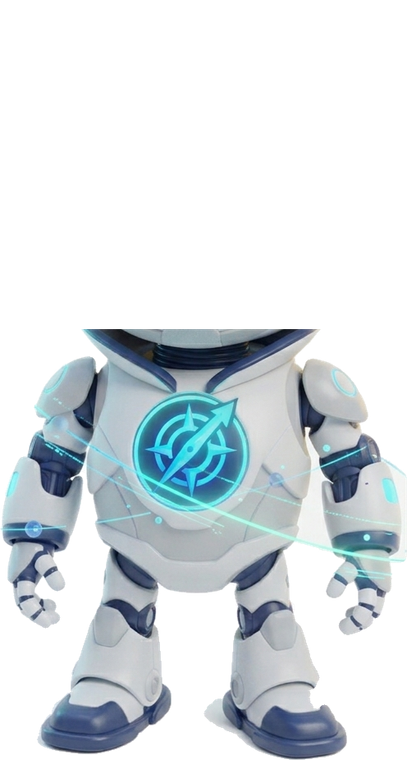
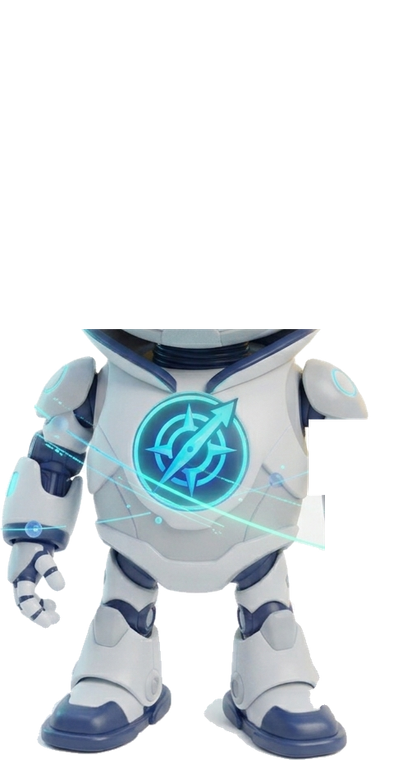
Trovie waves hello

Changed region(s): [[0.7371, 0.5447, 1.0, 0.8474]]

diff --git a/src/components/Trovie.tsx b/src/components/Trovie.tsx
@@ -19,11 +19,20 @@ const MOOD_LINES: Record<Exclude<TrovieMood, "idle">, string> = {
 // Trovie is built from two layers (head and body) so the head can move on its own.
 // Measurements below are percentages of the picture, taken from the original artwork.
 const HEAD_PIVOT = "48% 45.9%";
+const SHOULDER_PIVOT = "82.9% 53.8%"; // where the waving arm turns
 
 export default function Trovie({ mood = "idle", widthClass = "w-40" }: { mood?: TrovieMood; widthClass?: string }) {
   const box = useRef<HTMLDivElement>(null);
   const [line, setLine] = useState(0);
   const [hop, setHop] = useState(true);
+  const [waveKey, setWaveKey] = useState(0); // changing the key restarts the wave
+  const lastWave = useRef(0);
+  const wave = () => {
+    const now = Date.now();
+    if (now - lastWave.current < 3200) return; // don't interrupt a wave in progress
+    lastWave.current = now;
+    setWaveKey((k) => k + 1);
+  };
 
   // Rotate friendly lines every few seconds while idle.
   useEffect(() => {
@@ -31,11 +40,16 @@ export default function Trovie({ mood = "idle", widthClass = "w-40" }: { mood?: 
     return () => clearInterval(id);
   }, []);
 
-  // A little hello hop when the page opens.
+  // A little hello hop and wave when the page opens, then a wave every half minute or so.
   useEffect(() => {
-    const id = setTimeout(() => setHop(false), 900);
-    return () => clearTimeout(id);
+    const stopHop = setTimeout(() => setHop(false), 900);
+    const hello = setTimeout(wave, 1100);
+    const again = setInterval(wave, 30000);
+    return () => { clearTimeout(stopHop); clearTimeout(hello); clearInterval(again); };
   }, []);
+
+  // Wave when someone starts typing their email.
+  useEffect(() => { if (mood === "typing") wave(); }, [mood]);
 
   // The head turns toward the mouse. We write CSS variables directly so nothing re-renders.
   useEffect(() => {
@@ -64,7 +78,7 @@ export default function Trovie({ mood = "idle", widthClass = "w-40" }: { mood?: 
   const eyesShut = mood === "private";
 
   return (
-    <div className="relative w-fit select-none" role="img" aria-label="Trovie, your LeadTrove AI assistant">
+    <div className="relative w-fit select-none" onPointerEnter={wave} role="img" aria-label="Trovie, your LeadTrove AI assistant">
       {/* speech bubble to the right of the head */}
       <p
         key={message}
@@ -91,6 +105,9 @@ export default function Trovie({ mood = "idle", widthClass = "w-40" }: { mood?: 
           <div className={`trovie-bob absolute inset-0 ${lively ? "is-lively" : ""}`}>
             {/* body (breathes, chest glows) */}
             <div className="trovie-breathe absolute inset-0">
+              <div key={waveKey} className={`absolute inset-0 ${waveKey ? "trovie-wave" : ""}`} style={{ transformOrigin: SHOULDER_PIVOT }}>
+                <Image src="/trovie-arm.png" alt="" width={407} height={760} unoptimized className="absolute inset-0 h-full w-full" />
+              </div>
               <Image src="/trovie-body.png" alt="" width={407} height={760} unoptimized className="absolute inset-0 h-full w-full" />
               <span className="trovie-pulse pointer-events-none absolute left-[47%] top-[59.2%] h-[13%] w-[25%] rounded-full" style={{ background: "radial-gradient(circle, rgba(103,232,249,0.9), rgba(34,211,238,0) 70%)" }} />
             </div>

diff --git a/src/app/globals.css b/src/app/globals.css
@@ -93,3 +93,14 @@ body {
 @media (prefers-reduced-motion: reduce) {
   .trovie-bob, .trovie-breathe, .trovie-sway, .trovie-blink, .trovie-pulse, .trovie-spin, .trovie-hop { animation: none; }
 }
+
+/* Trovie waves: the arm rotates up around the shoulder, waves, then lowers again */
+@keyframes trovie-wave {
+  0% { transform: rotate(0deg); }
+  14% { transform: rotate(-128deg); }
+  24%, 44%, 64% { transform: rotate(-158deg); }
+  34%, 54%, 74% { transform: rotate(-122deg); }
+  100% { transform: rotate(0deg); }
+}
+.trovie-wave { animation: trovie-wave 2.8s ease-in-out 1; }
+@media (prefers-reduced-motion: reduce) { .trovie-wave { animation: none; } }

diff --git a/CLAUDE.md b/CLAUDE.md
@@ -48,7 +48,7 @@ Seed with `npm run seed` (`scripts/seed.mjs`): users `manav@leadtrove.demo` (Own
 Clean, modern, professional. Dark left sidebar (Dashboard, Contacts, Pipelines, Tasks, Forms, Settings), top bar, white cards, **one accent colour** (teal, `--color-accent` in `src/app/globals.css`). Must work on a laptop screen and look good in a 2-minute screen recording. Structure is inspired by GoHighLevel, but use LeadTrove's own name, logo (`public/logo.png`, `public/logo-icon.png`), colours and icons. **Do not copy GoHighLevel branding or exact design.**
 
 ## Trovie on the login page
-`src/components/Trovie.tsx` is a layered, animated version of the mascot (artwork `design/trovie-front-original.png`, cut into `public/trovie-head.png` + `trovie-body.png`): floats, breathes, head turns toward the mouse, blinks, antenna and chest glow, orbiting dots. `LoginTrovie.tsx` makes him react to the form (friendly on email, covers his eyes on password). Shown only on desktop (`lg`), under the login headline. The Home page still uses the older `Mascot.tsx`.
+`src/components/Trovie.tsx` is a layered, animated version of the mascot (artwork `design/trovie-front-original.png`, cut into `public/trovie-head.png` + `trovie-body.png`): floats, breathes, head turns toward the mouse, blinks, waves (a separate arm layer `public/trovie-arm.png` rotates around the shoulder: on page load, every 30s, on hover and when the email box is focused), antenna and chest glow, orbiting dots. `LoginTrovie.tsx` makes him react to the form (friendly on email, covers his eyes on password). Shown only on desktop (`lg`), under the login headline. The Home page still uses the older `Mascot.tsx`.
 
 ## Welcome page
 Layout: hero, quote + fun fact, then the "What's on your mind, {name}?" AskBar (`src/components/AskBar.tsx`, UI only, not connected to any AI yet) with the animated AI mascot beside it, named **Trovie** (`src/components/Mascot.tsx`, image `public/mascot.png` cut from `design/mascot-light-original.png` (the dark version is `design/mascot-original.png`), CSS animations in `globals.css`), then two columns: left Quick actions / Last actions / Pipeline snapshot (Sales open value per stage + deals won in 30 days), right Today's tasks (incl. overdue) / Stale leads / mini Calendar. Quick actions are hidden if the role lacks the permission.
